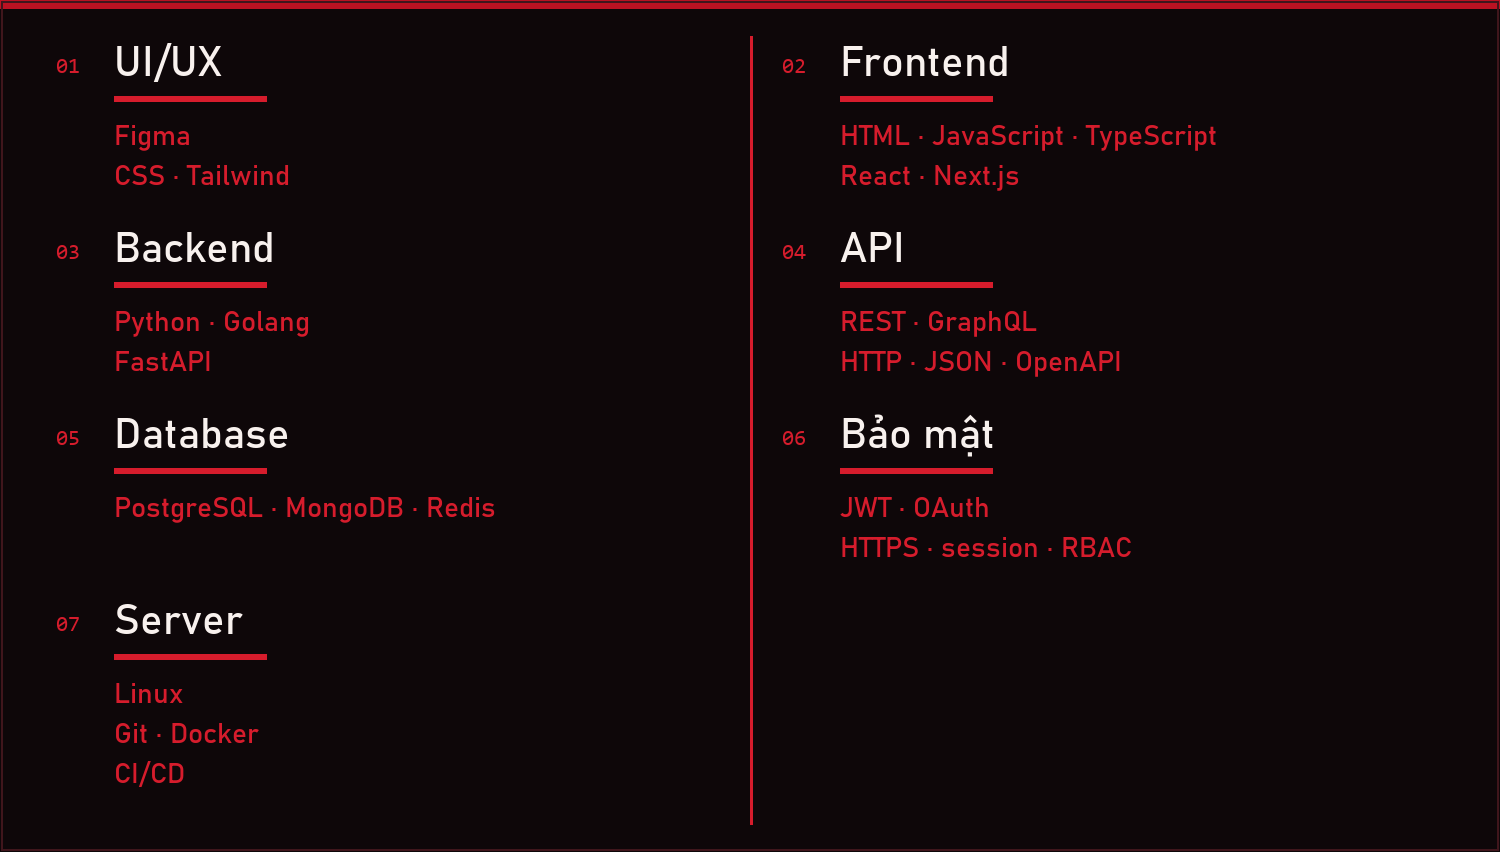
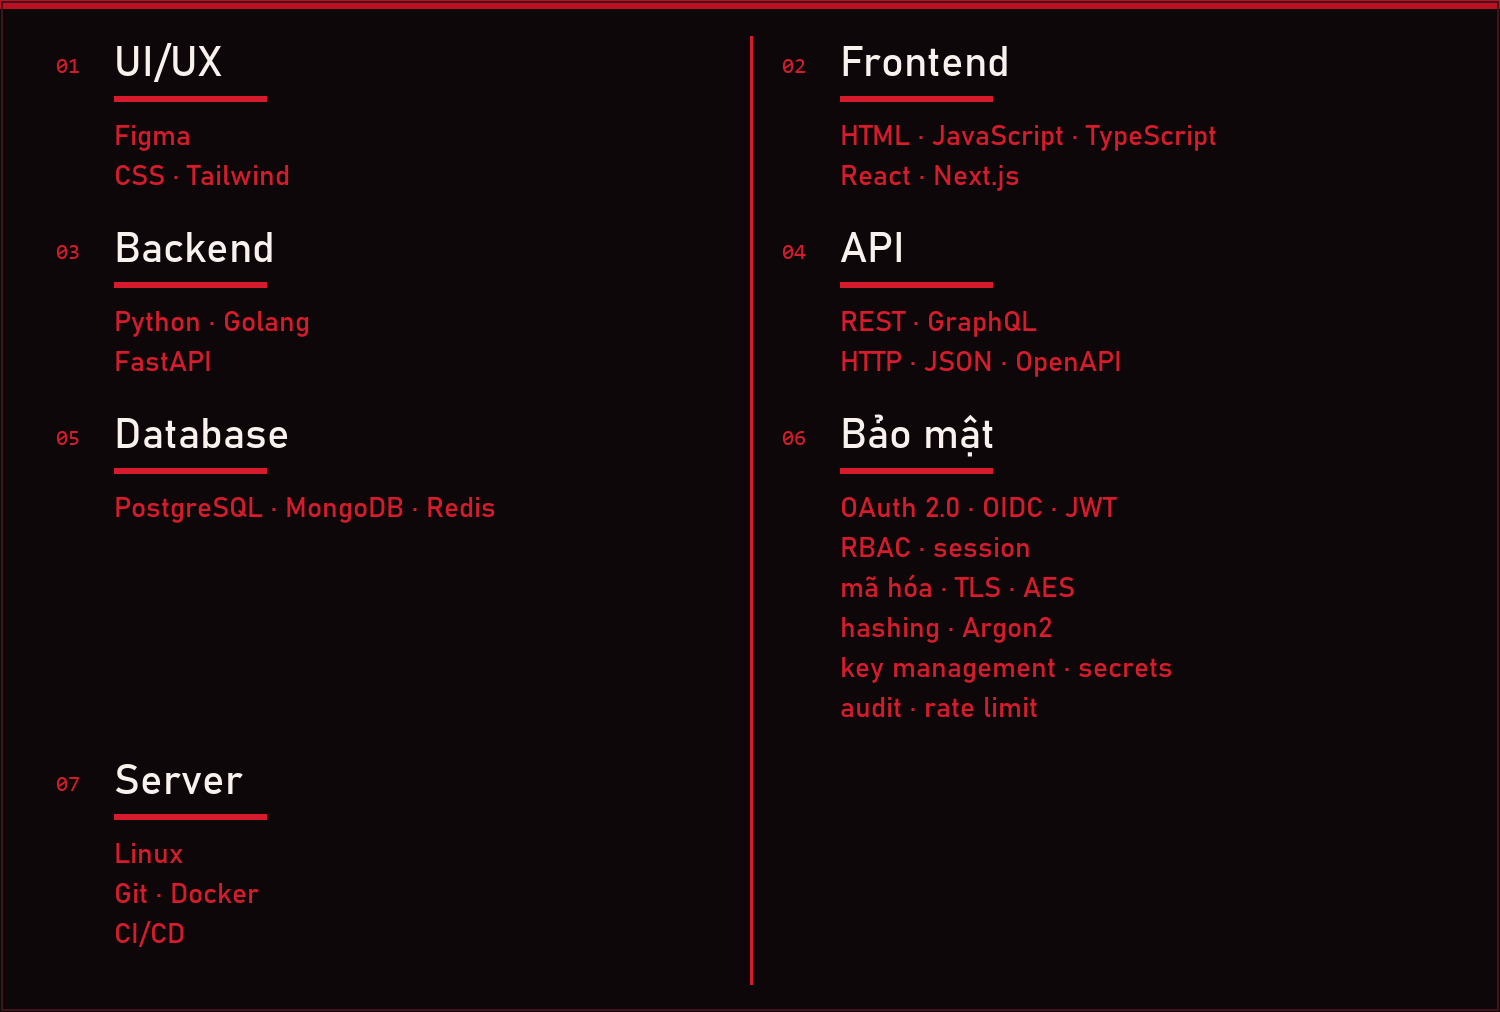
Bổ sung mã hóa và làm sâu phần bảo mật.

Changed region(s): [[0.0, 0.0, 1.0, 0.7324], [0.0307, 0.7019, 0.184, 0.946], [0.552, 0.7019, 0.5827, 0.7324]]

diff --git a/README.md b/README.md
@@ -1,5 +1,5 @@
 <img src="assets/header-dark.gif#gh-dark-mode-only" alt="call me exec77.sh" width="100%">
 <img src="assets/header-light.gif#gh-light-mode-only" alt="call me exec77.sh" width="100%">
 
-<img src="assets/panel-dark.png#gh-dark-mode-only" alt="UI/UX: Figma, CSS, Tailwind. Frontend: React, Next.js. Backend: Python, Golang, FastAPI. API: REST, GraphQL. Database: PostgreSQL, MongoDB, Redis. Bảo mật: JWT, OAuth, HTTPS. Server: Linux, Git, Docker, CI/CD." width="100%">
-<img src="assets/panel-light.png#gh-light-mode-only" alt="UI/UX: Figma, CSS, Tailwind. Frontend: React, Next.js. Backend: Python, Golang, FastAPI. API: REST, GraphQL. Database: PostgreSQL, MongoDB, Redis. Bảo mật: JWT, OAuth, HTTPS. Server: Linux, Git, Docker, CI/CD." width="100%">
+<img src="assets/panel-dark.png#gh-dark-mode-only" alt="UI/UX: Figma, CSS, Tailwind. Frontend: React, Next.js. Backend: Python, Golang, FastAPI. API: REST, GraphQL. Database: PostgreSQL, MongoDB, Redis. Bảo mật: OAuth 2.0, OIDC, JWT, RBAC, mã hóa TLS, AES, hashing Argon2, key management, audit. Server: Linux, Git, Docker, CI/CD." width="100%">
+<img src="assets/panel-light.png#gh-light-mode-only" alt="UI/UX: Figma, CSS, Tailwind. Frontend: React, Next.js. Backend: Python, Golang, FastAPI. API: REST, GraphQL. Database: PostgreSQL, MongoDB, Redis. Bảo mật: OAuth 2.0, OIDC, JWT, RBAC, mã hóa TLS, AES, hashing Argon2, key management, audit. Server: Linux, Git, Docker, CI/CD." width="100%">
